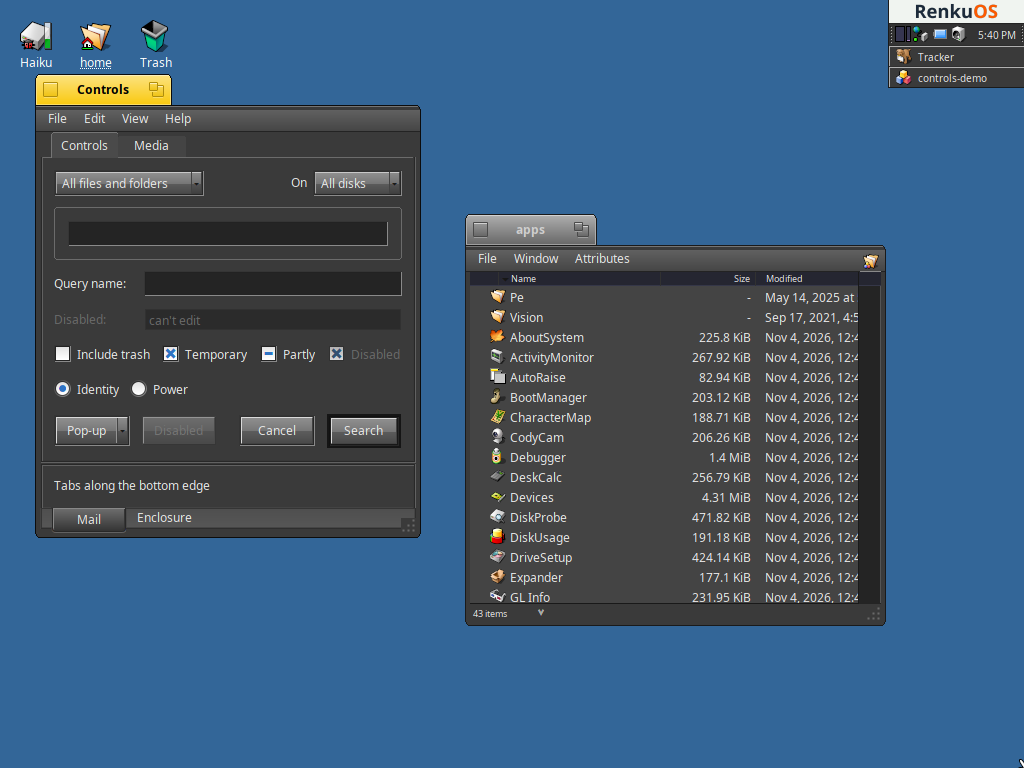
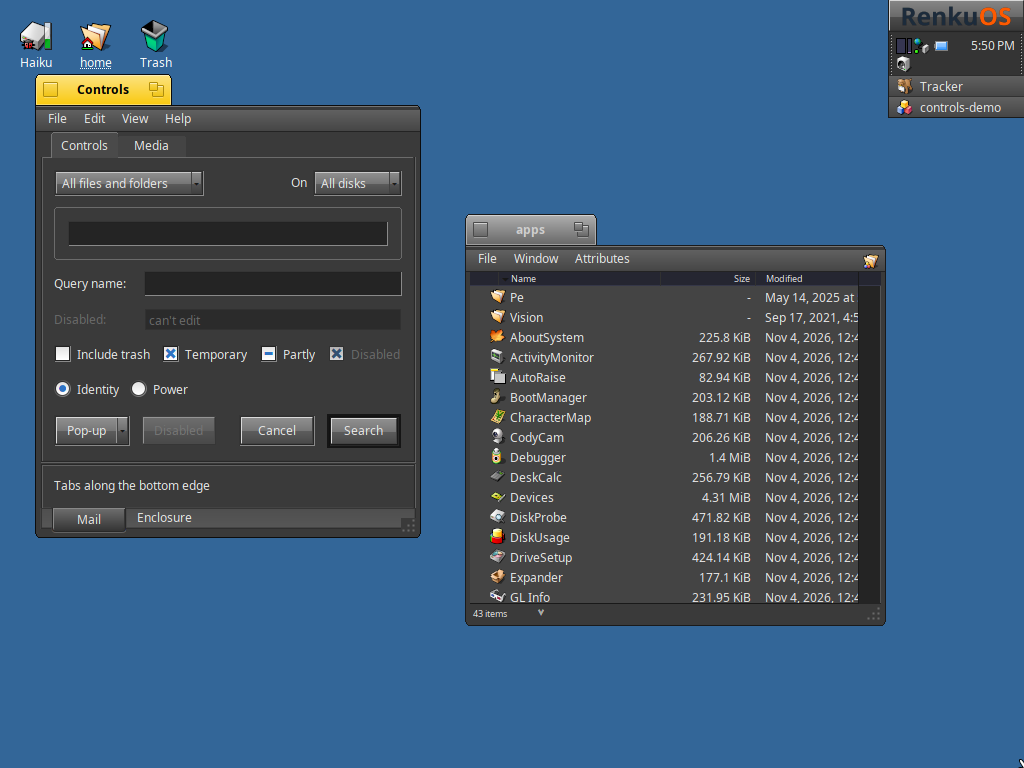
Tidy: a straight menu bar line, and fonts of its own
The frame worked out the menu bar's height from the title font, so its line
could land rows away from the bar's when the fonts differ; it now works it out
as BMenuBar does. Tracker's folder icon is a view of its own, which took
Haiku's darker line. Tidy also kept whatever fonts the last theme set.

Claude-Session: https://claude.ai/code/session_01PoWUVQ2Z76RzeEbsFvPvPp

Changed region(s): [[0.8438, 0.0, 1.0, 0.1562]]

diff --git a/src/tidy/TidyDecorator.cpp b/src/tidy/TidyDecorator.cpp
@@ -88,6 +88,7 @@ TidyDecorator::TidyDecorator(DesktopSettings& settings, BRect rect,
 	:
 	TabDecorator(settings, rect, desktop)
 {
+	_UpdateMenuBarHeight(settings);
 }
 
 
@@ -299,10 +300,8 @@ TidyDecorator::_DrawFrame(BRect rect)
 	// shading and its bottom line, so that it runs from edge to edge as in the
 	// mockups. Other windows stay flat, as they are there.
 	if (fTopTab->look == B_DOCUMENT_WINDOW_LOOK) {
-		font_height height;
-		fDrawState.Font().GetHeight(height);
-		const float line = std::min(fFrame.bottom, fFrame.top
-			+ ceilf(height.ascent + height.descent) + 4);
+		const float line = std::min(fFrame.bottom,
+			fFrame.top + fMenuBarHeight);
 		const bool dark = is_dark(face);
 		const rgb_color top = dark ? mix(face, kWhite, 0.2f) : face;
 		const rgb_color end = dark ? mix(face, kWhite, 0.06f)
@@ -486,6 +485,35 @@ TidyDecorator::_DrawMinimize(Decorator::Tab* tab, bool direct, BRect rect)
 
 
 //	#pragma mark - private
+
+
+void
+TidyDecorator::_FontsChanged(DesktopSettings& settings, BRegion* updateRegion)
+{
+	_UpdateMenuBarHeight(settings);
+	TabDecorator::_FontsChanged(settings, updateRegion);
+}
+
+
+/*!	How far a menu bar's bottom line is from the top of the window, worked out
+	as BMenuBar does: the menu font's height and margins of a sixth of the plain
+	font's size, above and below. A menu bar's own font isn't the window title's.
+*/
+void
+TidyDecorator::_UpdateMenuBarHeight(const DesktopSettings& settings)
+{
+	ServerFont plain;
+	settings.GetDefaultPlainFont(plain);
+	menu_info info;
+	settings.GetMenuInfo(info);
+
+	ServerFont font(plain);
+	font.SetSize(info.font_size);
+	font_height height;
+	font.GetHeight(height);
+	fMenuBarHeight = ceilf(height.ascent + height.descent
+		+ plain.Size() / 3.0f);
+}
 
 
 bool

diff --git a/src/tidy/TidyDecorator.h b/src/tidy/TidyDecorator.h
@@ -60,7 +60,12 @@ protected:
 
 	virtual	void				_GetFootprint(BRegion* region);
 
+	virtual	void				_FontsChanged(DesktopSettings& settings,
+									BRegion* updateRegion = NULL);
+
 private:
+			void				_UpdateMenuBarHeight(
+									const DesktopSettings& settings);
 			bool				_HasThinTop() const;
 			float				_Scale() const;
 			float				_TabHeight() const;
@@ -82,6 +87,8 @@ private:
 			void				_DrawResizeGrip(BRect invalid);
 			void				_DrawButtonBox(BRect box,
 									const rgb_color& base, bool pressed);
+
+			float				fMenuBarHeight;
 };
 
 

diff --git a/src/tidy/TidyControlLook.cpp b/src/tidy/TidyControlLook.cpp
@@ -275,7 +275,9 @@ TidyControlLook::DrawBorder(BView* view, BRect& rect, const BRect& updateRect,
 	const rgb_color& base, border_style borderStyle, uint32 flags,
 	uint32 borders)
 {
-	if (dynamic_cast<BMenuBar*>(view) == NULL) {
+	// Tracker's folder icon sits at the end of its menu bar, as a view of its own
+	if (dynamic_cast<BMenuBar*>(view) == NULL && (view->Name() == NULL
+			|| strcmp(view->Name(), "DraggableContainerIcon") != 0)) {
 		HaikuControlLook::DrawBorder(view, rect, updateRect, base, borderStyle,
 			flags, borders);
 		return;
